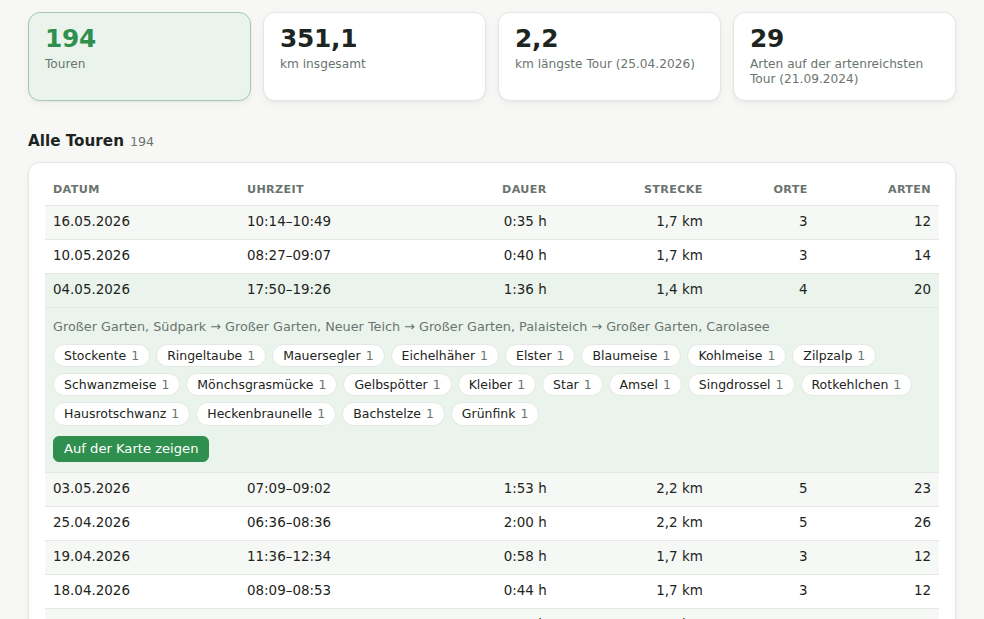
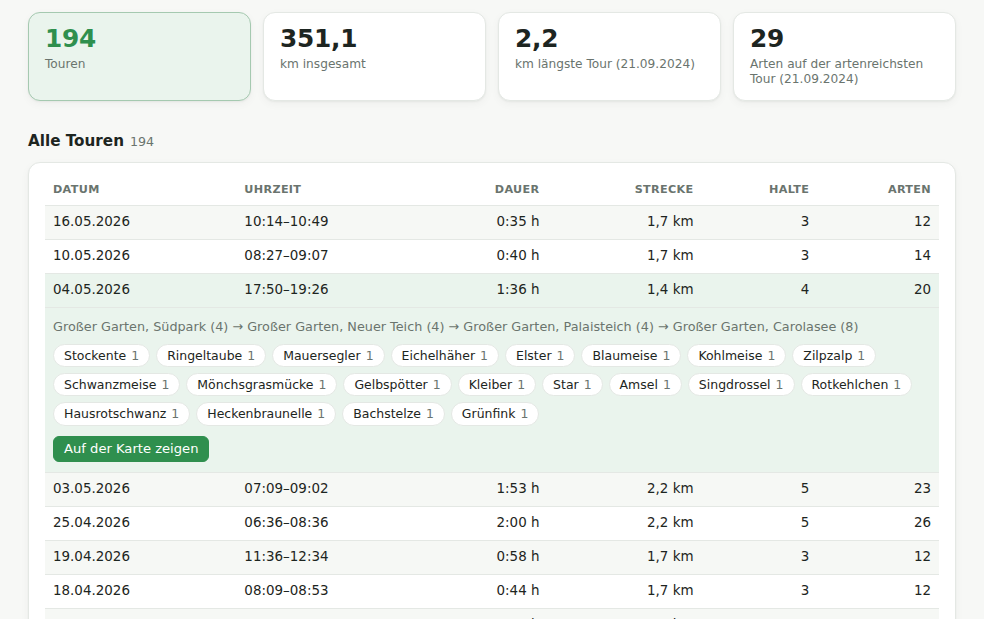
Feature: Group records at one spot into a tour stop at their mean position
Several species are often reported at one spot with slightly different
places. Records in a row within 150 m of the current stop now join it
and move it to the mean position of its records (each record counts);
the distance, the number of stops and the route on the map run through
these stops, and each stop is named after the place most of its records
use. A tour needs at least two stops.

diff --git a/src/tours.js b/src/tours.js
@@ -1,8 +1,17 @@
 /* ---------- tours ---------- */
 // Tours are reconstructed from the records themselves: on one day, records with a time that follow each
 // other within TOUR_MAX_GAP_MIN minutes and TOUR_MAX_STEP_M metres belong to the same walk or ride.
-// A chain that never leaves one place is a stay, not a tour.
-const TOUR_MAX_GAP_MIN = 10, TOUR_MAX_STEP_M = 1000, TOURS_SHOWN = 30;
+// Records in a row within TOUR_STOP_RADIUS_M of each other are one stop (several species reported at
+// one spot): the stop sits at the mean position of its records. A chain with a single stop is a stay,
+// not a tour.
+const TOUR_MAX_GAP_MIN = 10, TOUR_MAX_STEP_M = 1000, TOUR_STOP_RADIUS_M = 150, TOURS_SHOWN = 30;
+/**
+ * @typedef {Object} TourStop
+ * @property {number} lat - mean latitude of its records
+ * @property {number} lon - mean longitude of its records
+ * @property {string} name - the place most of its records name
+ * @property {Observation[]} obs
+ */
 /**
  * @typedef {Object} Tour
  * @property {string} key - stable id: date, start minute and first place
@@ -10,8 +19,8 @@ const TOUR_MAX_GAP_MIN = 10, TOUR_MAX_STEP_M = 1000, TOURS_SHOWN = 30;
  * @property {number} y
  * @property {number} start - minute of the day of the first record
  * @property {number} end - minute of the day of the last record
- * @property {number[]} path - the places in the order they were visited (indices into PL)
- * @property {number} km - length of the path
+ * @property {TourStop[]} stops - where the birder stopped, in order
+ * @property {number} km - length of the path through the stops
  * @property {Observation[]} obs
  */
 // great-circle distance in metres
@@ -19,6 +28,31 @@ function distM(p, q) {
   const rad = Math.PI / 180, dLat = (q.lat - p.lat) * rad, dLon = (q.lon - p.lon) * rad;
   const a = Math.sin(dLat / 2) ** 2 + Math.cos(p.lat * rad) * Math.cos(q.lat * rad) * Math.sin(dLon / 2) ** 2;
   return 12742000 * Math.asin(Math.sqrt(a));
+}
+/**
+ * Groups a tour's records in a row into stops: a record within TOUR_STOP_RADIUS_M of the current stop's
+ * mean position joins it and moves that mean, weighted by records; a farther one starts the next stop.
+ * @param {Observation[]} chain @returns {TourStop[]}
+ */
+function tourStops(chain) {
+  /** @type {(TourStop & {sumLat: number, sumLon: number})[]} */
+  const stops = [];
+  for (const o of chain) {
+    const p = PL[o.p], cur = stops[stops.length - 1];
+    if (cur && distM(cur, p) <= TOUR_STOP_RADIUS_M) {
+      cur.obs.push(o);
+      cur.sumLat += p.lat; cur.sumLon += p.lon;
+      cur.lat = cur.sumLat / cur.obs.length; cur.lon = cur.sumLon / cur.obs.length;
+    } else {
+      stops.push({ lat: p.lat, lon: p.lon, sumLat: p.lat, sumLon: p.lon, name: "", obs: [o] });
+    }
+  }
+  for (const st of stops) {
+    const n = new Map();
+    for (const o of st.obs) n.set(o.p, (n.get(o.p) || 0) + 1);
+    st.name = placeName([...n].sort((a, b) => b[1] - a[1])[0][0]);
+  }
+  return stops;
 }
 /** @param {Observation[]} list @returns {Tour[]} newest first */
 function findTours(list) {
@@ -34,11 +68,11 @@ function findTours(list) {
     day.sort((a, b) => a.tm - b.tm);
     let chain = [day[0]];
     const flush = () => {
-      const path = chain.map(o => o.p).filter((p, i, a) => i === 0 || p !== a[i - 1]);
-      if (new Set(path).size < 2) return;
+      const stops = tourStops(chain);
+      if (stops.length < 2) return;
       let km = 0;
-      for (let i = 1; i < path.length; i++) km += distM(PL[path[i - 1]], PL[path[i]]) / 1000;
-      tours.push({ key: `${d}-${chain[0].tm}-${path[0]}`, d, y: chain[0].y, start: chain[0].tm, end: chain[chain.length - 1].tm, path, km, obs: chain });
+      for (let i = 1; i < stops.length; i++) km += distM(stops[i - 1], stops[i]) / 1000;
+      tours.push({ key: `${d}-${chain[0].tm}-${chain[0].p}`, d, y: chain[0].y, start: chain[0].tm, end: chain[chain.length - 1].tm, stops, km, obs: chain });
     };
     for (let i = 1; i < day.length; i++) {
       if (close(day[i - 1], day[i])) chain.push(day[i]);
@@ -57,7 +91,7 @@ const fmtKm = km => km.toLocaleString(S.lang === "en" ? "en-GB" : "de-DE", { min
 const fmtDuration = min => `${Math.floor(min / 60)}:${pad(min % 60)} h`;
 function renderTours() {
   const tours = visibleTours();
-  if (!tours.length) { $("tab-tours").innerHTML = infoText(t("toursHelp", TOUR_MAX_GAP_MIN, fmtKm(TOUR_MAX_STEP_M / 1000))) + `<p class="empty">${t("toursNone")}</p>`; updateToc(); return; }
+  if (!tours.length) { $("tab-tours").innerHTML = infoText(t("toursHelp", TOUR_MAX_GAP_MIN, fmtKm(TOUR_MAX_STEP_M / 1000), TOUR_STOP_RADIUS_M)) + `<p class="empty">${t("toursNone")}</p>`; updateToc(); return; }
   const stats = speciesStats(baseObs());
   const isLifer = tr => s => tr.obs.includes(stats.get(s)?.first);
   const km = tours.reduce((a, tr) => a + tr.km, 0);
@@ -69,16 +103,16 @@ function renderTours() {
     const open = S.tourOpen.has(tr.key);
     let h = `<tr class="row" data-tour="${tr.key}"><td>${fmtD(tr.d)}</td><td class="hide-sm">${fmtTime(tr.start)}–${fmtTime(tr.end)}</td>
       <td class="num">${fmtDuration(tr.end - tr.start)}</td><td class="num">${fmtKm(tr.km)} km</td>
-      <td class="num hide-sm">${new Set(tr.path).size}</td><td class="num">${species.size}</td></tr>`;
+      <td class="num hide-sm">${tr.stops.length}</td><td class="num">${species.size}</td></tr>`;
     if (open) {
-      h += `<tr class="detail"><td colspan="6"><div class="tour-path">${tr.path.map(p => esc(placeName(p))).join(" → ")}</div>
+      h += `<tr class="detail"><td colspan="6"><div class="tour-path">${tr.stops.map(st => `${esc(st.name)} (${new Set(st.obs.map(o => o.s)).size})`).join(" → ")}</div>
         ${speciesChipsOf(tr.obs, isLifer(tr))}
         <p style="margin:10px 0 2px"><button class="btn" type="button" data-route="${tr.key}">${t("tourShowMap")}</button></p></td></tr>`;
     }
     return h;
   }).join("");
   $("tab-tours").innerHTML = `
-    ${infoText(t("toursHelp", TOUR_MAX_GAP_MIN, fmtKm(TOUR_MAX_STEP_M / 1000)))}
+    ${infoText(t("toursHelp", TOUR_MAX_GAP_MIN, fmtKm(TOUR_MAX_STEP_M / 1000), TOUR_STOP_RADIUS_M))}
     <div class="kpis k4">
       <div class="kpi main"><b>${fmtN(tours.length)}</b><span>${t("toursKCount")}</span></div>
       <div class="kpi"><b>${fmtKm(km)}</b><span>${t("toursKKm")}</span></div>
@@ -98,13 +132,13 @@ function drawTourRoute() {
   const tr = S.tourRoute && findTours(baseObs()).find(x => x.key === S.tourRoute);
   if (!tr) { S.tourRoute = null; return false; }
   if (!MAP_ROUTE) MAP_ROUTE = L.layerGroup().addTo(MAP);
-  const pts = tr.path.map(p => [PL[p].lat, PL[p].lon]);
+  const pts = tr.stops.map(st => [st.lat, st.lon]);
   const accent = cssVar("--accent");
   L.polyline(pts, { color: accent, weight: 4, opacity: 0.85 }).addTo(MAP_ROUTE);
-  tr.path.forEach((p, i) => L.marker(pts[i], {
+  tr.stops.forEach((st, i) => L.marker(pts[i], {
     icon: L.divIcon({ className: "route-stop", html: `<div>${i + 1}</div>`, iconSize: [22, 22] }), zIndexOffset: 3000,
-  }).bindTooltip(`${i + 1}. ${esc(PL[p].name)}`).addTo(MAP_ROUTE));
+  }).bindTooltip(`${i + 1}. ${esc(st.name)}: ${new Set(st.obs.map(o => o.s)).size} ${esc(t("mapSpecies"))}`).addTo(MAP_ROUTE));
   MAP.fitBounds(pts, { padding: [40, 40], maxZoom: 16 });
-  $("map-note").innerHTML = `${esc(t("tourOnMap", fmtD(tr.d), new Set(tr.path).size, fmtKm(tr.km)))} <button class="lnk" data-route-off>${t("tourHide")}</button>`;
+  $("map-note").innerHTML = `${esc(t("tourOnMap", fmtD(tr.d), tr.stops.length, fmtKm(tr.km)))} <button class="lnk" data-route-off>${t("tourHide")}</button>`;
   return true;
 }

diff --git a/src/i18n.js b/src/i18n.js
@@ -7,11 +7,11 @@ de: {
   pdf: "PDF erstellen", printed: "Stand: {0}", infoToggle: "Erläuterung",
   subtitle: "Ornitho.de, Exportdatei {0}, {1} Beobachtungen",
   tabOverview: "Übersicht", tabList: "Lebensliste", tabRegions: "Regionen", tabTargets: "Ziele", tabActivity: "Tagesaktivität", tabTours: "Touren", tabMap: "Karte",
-  toursHelp: "Touren werden aus deinen Meldungen rekonstruiert: Meldungen mit Uhrzeit, die am selben Tag höchstens {0} Minuten und {1} km auseinanderliegen, gehören zu einer Tour, zum Beispiel einem Spaziergang oder einer Radtour. Bleiben sie alle an einem Ort, ist es keine Tour. Die Strecke ist die Luftlinie von Ort zu Ort.",
+  toursHelp: "Touren werden aus deinen Meldungen rekonstruiert: Meldungen mit Uhrzeit, die am selben Tag höchstens {0} Minuten und {1} km auseinanderliegen, gehören zu einer Tour, zum Beispiel einem Spaziergang oder einer Radtour. Meldungen hintereinander, die höchstens {2} m auseinanderliegen, sind ein Halt, etwa mehrere Arten an einer Stelle; er liegt im Mittel seiner Meldungen. Eine Tour hat mindestens zwei Halte. Die Strecke ist die Luftlinie von Halt zu Halt.",
   toursNone: "Keine Touren gefunden.", toursTitle: "Alle Touren", toursKCount: "Touren", toursKKm: "km insgesamt",
   toursKLongest: "km längste Tour ({0})", toursKRichest: "Arten auf der artenreichsten Tour ({0})",
-  colDate: "Datum", colTime: "Uhrzeit", colDuration: "Dauer", colDistance: "Strecke", colPlaces: "Orte",
-  tourShowMap: "Auf der Karte zeigen", tourOnMap: "Tour am {0}: {1} Orte, {2} km.", tourHide: "Tour ausblenden",
+  colDate: "Datum", colTime: "Uhrzeit", colDuration: "Dauer", colDistance: "Strecke", colPlaces: "Halte",
+  tourShowMap: "Auf der Karte zeigen", tourOnMap: "Tour am {0}: {1} Halte, {2} km.", tourHide: "Tour ausblenden",
   actHelp: "Zu welcher Uhrzeit du Beobachtungen meldest. Berücksichtigt sind {0} von {1} Meldungen, denn manche Meldungen (vor allem über die Weboberfläche) haben keine Uhrzeit.",
   actMObs: "Beobachtungen", actMSpecies: "Arten", actMDays: "Beobachtungstage",
   actKTimed: "Meldungen mit Uhrzeit", actKPeak: "Aktivste Stunde",
@@ -120,11 +120,11 @@ en: {
   pdf: "Create PDF", printed: "As of: {0}", infoToggle: "About this",
   subtitle: "Ornitho.de, export file {0}, {1} observations",
   tabOverview: "Overview", tabList: "Life List", tabRegions: "Regions", tabTargets: "Targets", tabActivity: "Daily Activity", tabTours: "Tours", tabMap: "Map",
-  toursHelp: "Tours are reconstructed from your records: records with a time on the same day that are at most {0} minutes and {1} km apart belong to one tour, such as a walk or a bike ride. If they all stay at one place, it is not a tour. The distance is the straight line from place to place.",
+  toursHelp: "Tours are reconstructed from your records: records with a time on the same day that are at most {0} minutes and {1} km apart belong to one tour, such as a walk or a bike ride. Records in a row at most {2} m apart are one stop, such as several species at one spot; it sits at the mean of its records. A tour has at least two stops. The distance is the straight line from stop to stop.",
   toursNone: "No tours found.", toursTitle: "All tours", toursKCount: "Tours", toursKKm: "km in total",
   toursKLongest: "km longest tour ({0})", toursKRichest: "species on the richest tour ({0})",
-  colDate: "Date", colTime: "Time", colDuration: "Duration", colDistance: "Distance", colPlaces: "Places",
-  tourShowMap: "Show on the map", tourOnMap: "Tour on {0}: {1} places, {2} km.", tourHide: "Hide tour",
+  colDate: "Date", colTime: "Time", colDuration: "Duration", colDistance: "Distance", colPlaces: "Stops",
+  tourShowMap: "Show on the map", tourOnMap: "Tour on {0}: {1} stops, {2} km.", tourHide: "Hide tour",
   actHelp: "Time of day you log sightings, covering {0} of {1} records. Some entries, especially via the web, carry no time.",
   actMObs: "Observations", actMSpecies: "Species", actMDays: "Observation days",
   actKTimed: "Records with a time", actKPeak: "Busiest hour",

diff --git a/tests/test_page.py b/tests/test_page.py
@@ -43,6 +43,9 @@ class PageTest(unittest.TestCase):
         near = dict(municipality="Musterdorf (SN, GR)")
         walk = [
             sighting("Parus major", "Kohlmeise", "2024-05-01", place_id="A", place="Punkt A", lat="51.1000", lon="14.5000", time="07:00", **near),
+            # two more species at A's spot, 40 m and 80 m off: one stop with A, at their mean position
+            sighting("Erithacus rubecula", "Rotkehlchen", "2024-05-01", place_id="A2", place="Punkt A", lat="51.1004", lon="14.5000", time="07:01", **near),
+            sighting("Fringilla coelebs", "Buchfink", "2024-05-01", place_id="A3", place="Punkt A Rand", lat="51.1000", lon="14.5012", time="07:02", **near),
             sighting("Turdus merula", "Amsel", "2024-05-01", place_id="B", place="Punkt B", lat="51.1054", lon="14.5000", time="07:05", **near),
             sighting("Sitta europaea", "Kleiber", "2024-05-01", place_id="C", place="Punkt C", lat="51.1324", lon="14.5000", time="07:09", **near),
             sighting("Buteo buteo", "Mäusebussard", "2024-05-01", place_id="D", place="Punkt D", lat="51.1324", lon="14.5050", time="07:29", **near),
@@ -267,12 +270,15 @@ class PageTest(unittest.TestCase):
 
     def test_tours_are_rebuilt_from_close_records(self):
         page = self.open(redact="tours", hash="#tours")
-        tours = page.evaluate("findTours(baseObs()).map(t => ({ path: t.path.map(p => PL[p].name), km: t.km }))")
+        tours = page.evaluate("findTours(baseObs()).map(t => ({ stops: t.stops.map(s => [s.name, s.obs.length, s.lat, s.lon]), km: t.km }))")
         self.assertEqual(len(tours), 1)
-        self.assertEqual(tours[0]["path"], ["Punkt A", "Punkt B"])
-        self.assertAlmostEqual(tours[0]["km"], 0.6, delta=0.02)
+        (a_name, a_n, a_lat, a_lon), (b_name, b_n, _, _) = tours[0]["stops"]
+        self.assertEqual((a_name, a_n, b_name, b_n), ("Punkt A", 3, "Punkt B", 1))
+        self.assertAlmostEqual(a_lat, (51.1000 + 51.1004 + 51.1000) / 3, places=6)
+        self.assertAlmostEqual(a_lon, (14.5000 + 14.5000 + 14.5012) / 3, places=6)
+        self.assertAlmostEqual(tours[0]["km"], 0.59, delta=0.02)
         page.locator("#tab-tours tr.row").first.click()
-        self.assertIn("Punkt A → Punkt B", page.inner_text("#tab-tours"))
+        self.assertIn("Punkt A (3) → Punkt B (1)", page.inner_text("#tab-tours"))
         page.click("[data-route]")
         page.wait_for_function("S.tab === 'map'")
         self.assertEqual(page.locator(".route-stop").count(), 2)
